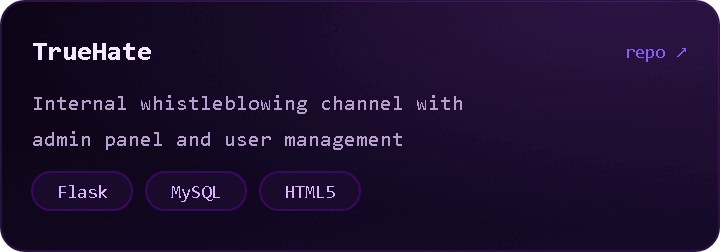
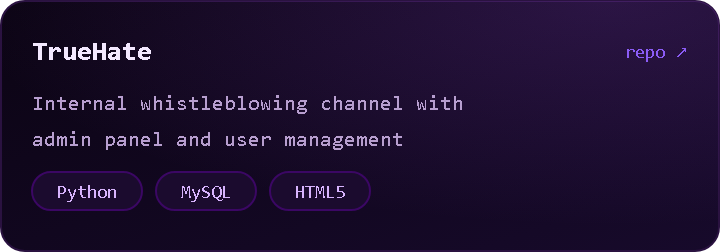
chore: remove Flask do perfil e do cartao do TrueHate

Changed region(s): [[0.0611, 0.6667, 0.5194, 0.8333], [0.3056, 0.6667, 0.3361, 0.6944]]

diff --git a/scripts/projects.js b/scripts/projects.js
@@ -13,7 +13,7 @@ const projetos = [
     slug: "TrueHate",
     nome: "TrueHate",
     linhas: ["Internal whistleblowing channel with", "admin panel and user management"],
-    tags: ["Flask", "MySQL", "HTML5"],
+    tags: ["Python", "MySQL", "HTML5"],
   },
   {
     slug: "umidade-esp32",

diff --git a/README.md b/README.md
@@ -76,8 +76,7 @@ carlos = {
   &nbsp;
   <img src="https://img.shields.io/badge/PHP-7C3AED?style=for-the-badge&logo=php&logoColor=white" alt="PHP" />
   &nbsp;
-  <img src="https://img.shields.io/badge/Flask-A855F7?style=for-the-badge&logo=flask&logoColor=white" alt="Flask" />
-  &nbsp;
+&nbsp;
   <img src="https://img.shields.io/badge/Node.js-C084FC?style=for-the-badge&logo=nodedotjs&logoColor=white" alt="Node.js" />
   &nbsp;
   <img src="https://img.shields.io/badge/REST_APIs-6D28D9?style=for-the-badge&logo=json&logoColor=white" alt="REST APIs" />
